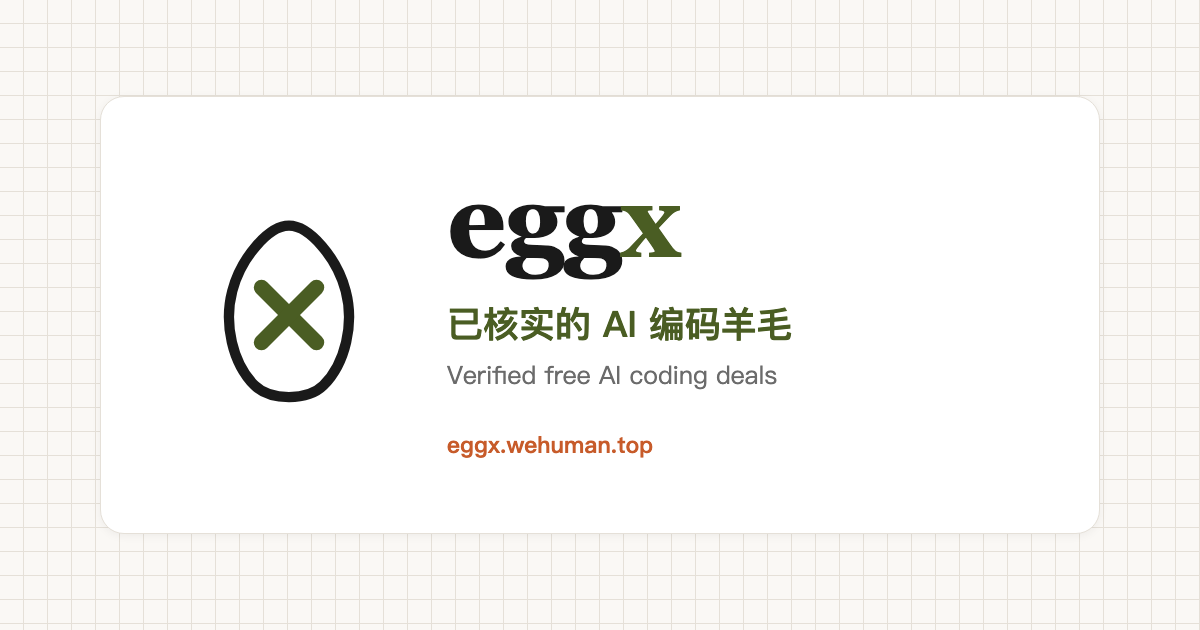
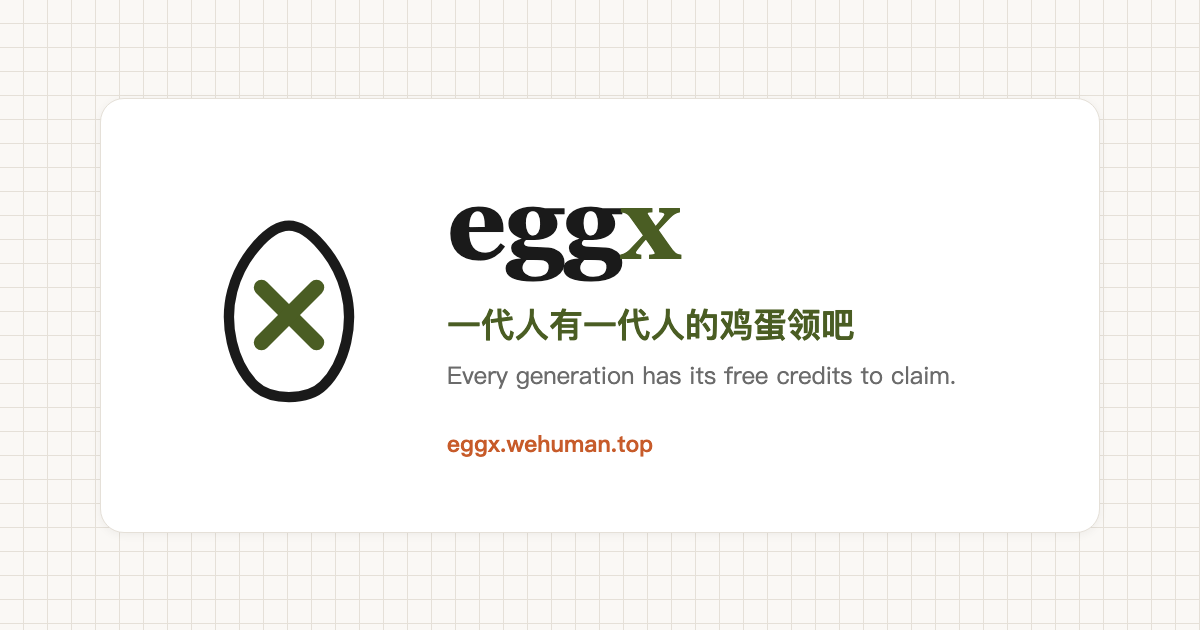
feat: adopt eggx generational credits slogan

diff --git a/src/lib/i18n.ts b/src/lib/i18n.ts
@@ -139,7 +139,7 @@ export interface UIStrings {
 }
 
 const zh: UIStrings = {
-  siteTagline: "已核实的 AI 编码羊毛",
+  siteTagline: "一代人有一代人的鸡蛋领吧",
   navGroupDeals: "羊毛",
   navTemporary: "临时羊毛",
   navLongTerm: "长期羊毛",
@@ -207,7 +207,7 @@ navCodexReset: "Codex 重置",
   agentBlurb:
     "把 eggx 接进你的 Agent：Skill、REST API、RSS、llms.txt — 全部匿名只读，无需 API Key。",
   siteDescription:
-    "eggx 只回答一个问题：现在有什么可以领的免费 AI 编码额度？每条羊毛都带官方来源、可信度标签、真实限额与最后核实日期。",
+    "一代人有一代人的鸡蛋领吧。eggx 持续核实可领取的免费 AI 编码额度：每条羊毛都带官方来源、可信度标签、真实限额与最后核实日期。",
   temporaryTitle: "临时羊毛",
   temporaryBlurb: "限时活动，过期不候 — 按到期时间排序。",
   communitySectionTitle: "社区消息",
@@ -253,7 +253,7 @@ navCodexReset: "Codex 重置",
 };
 
 const en: UIStrings = {
-  siteTagline: "Verified free AI coding deals",
+  siteTagline: "Every generation has its free credits to claim",
   navGroupDeals: "Deals",
   navTemporary: "Temporary",
   navLongTerm: "Long-term",
@@ -322,7 +322,7 @@ const en: UIStrings = {
   agentBlurb:
     "Wire eggx into your agent: Skill, REST API, RSS, llms.txt — all anonymous, read-only, no API key.",
   siteDescription:
-    "eggx answers one question: what can I claim for free right now to build with AI? Every offer carries an official source, a trust label, the real limits, and the date it was last verified.",
+    "Every generation has its free credits to claim. eggx tracks verified free AI coding deals, each with an official source, trust label, real limits, and last-verified date.",
   temporaryTitle: "Temporary offers",
   temporaryBlurb: "Limited-time campaigns, sorted by expiry date.",
   communitySectionTitle: "Community reports",

diff --git a/src/pages/feed.xml.ts b/src/pages/feed.xml.ts
@@ -23,9 +23,9 @@ export const GET: APIRoute = () => {
   const xml = `<?xml version="1.0" encoding="UTF-8"?>
 <rss version="2.0">
   <channel>
-    <title>eggx 羊毛</title>
+    <title>eggx — 一代人有一代人的鸡蛋领吧</title>
     <link>/feed.xml</link>
-    <description>已核实的 AI 编码羊毛与免费平台目录</description>
+    <description>持续核实的免费 AI 编码额度与平台目录</description>
     <lastBuildDate>${new Date().toUTCString()}</lastBuildDate>
     <generator>eggx</generator>
     ${items}

diff --git a/README_en.md b/README_en.md
@@ -1,8 +1,8 @@
 <div align="center">
   <img src="public/favicon.svg" alt="eggx logo" width="112" />
   <h1>eggx</h1>
-  <p><strong>Verified free AI coding offers</strong></p>
-  <p>Limited-time campaigns · long-term free tiers · application tracks — each with an official source, real limits, and a verification date.</p>
+  <p><strong>Every generation has its free credits to claim.</strong></p>
+  <p>Verified free AI coding deals: limited-time campaigns · long-term free tiers · application tracks — each with an official source, real limits, and a verification date.</p>
   <p>
     <a href="./README.md">简体中文</a> ·
     <strong>English</strong>

diff --git a/README.md b/README.md
@@ -1,8 +1,8 @@
 <div align="center">
   <img src="public/favicon.svg" alt="eggx logo" width="112" />
   <h1>eggx</h1>
-  <p><strong>已核实的 AI 编码羊毛</strong></p>
-  <p>限时活动 · 长期免费层 · 申请通道 — 每条都带官方来源、限额与核实日期。</p>
+  <p><strong>一代人有一代人的鸡蛋领吧</strong></p>
+  <p>已核实的免费 AI 编码额度：限时活动 · 长期免费层 · 申请通道 — 每条都带官方来源、限额与核实日期。</p>
   <p>
     <strong>简体中文</strong> ·
     <a href="./README_en.md">English</a>

diff --git a/skills/eggx/SKILL.md b/skills/eggx/SKILL.md
@@ -7,9 +7,9 @@ metadata:
   version: "1.1.0"
 ---
 
-# eggx — 已核实的 AI 编码羊毛
+# eggx — 一代人有一代人的鸡蛋领吧
 
-eggx 只回答一个问题：**现在有什么可以领的免费 AI 编码额度？**
+ eggx 持续核实一个问题：**现在有什么可以领的免费 AI 编码额度？**
 每条羊毛（offer）都带官方来源链接、可信度标签、限额与最后核实日期。
 
 ## 安全边界
